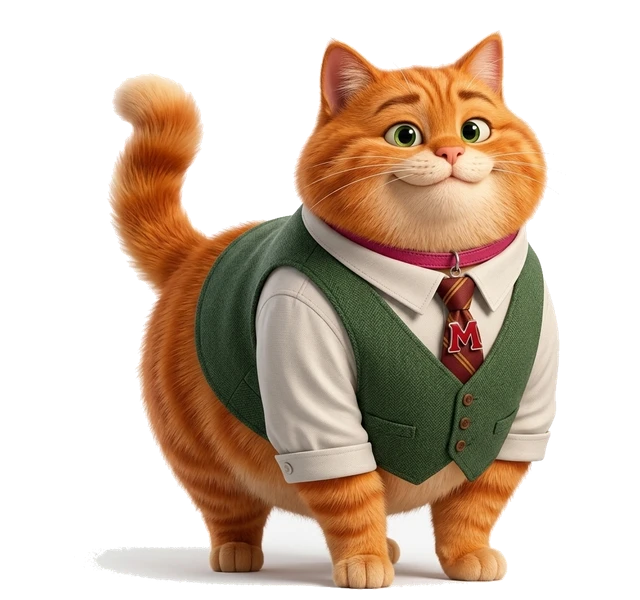
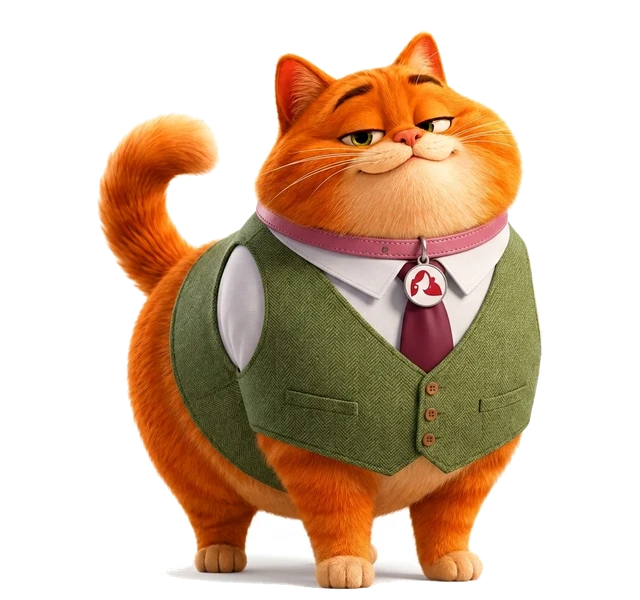
art: реген stage13 «Управляющий» — убрана «М»-монограмма с галстука
Пропущенное нарушение QC (тот же брак, что был у stage16). Кэш-бастер
котов v22, catclick v98.

diff --git a/public/js/catclick.js b/public/js/catclick.js
@@ -4,7 +4,7 @@
  * лидерборд. Сервер /api/clicker* для авторизованных, localStorage у гостей.
  * ───────────────────────────────────────────────────────────────────────────── */
 (function () {
-  const A = (s) => `/assets/images/cat/${s}?v=21`;  // v21: реген stage7/9/16 без «М» на одежде
+  const A = (s) => `/assets/images/cat/${s}?v=22`;  // v22: реген stage7/9/13/16 без «М» на одежде
   const LS = 'maria_click_v2';
   const REGEN = 1.5, PASSIVE_CAP_H = 3, TURBO_MULT = 5, TURBO_SEC = 20, DAILY_BOOSTS = 6;
   // ⚠ Зеркало CARDS/CARD_CATS из src/clicker.ts — менять синхронно (+ cardIcon по id).

diff --git a/public/index.html b/public/index.html
@@ -1305,7 +1305,7 @@
 <script src="/js/catfeed.js" defer></script>
 <script src="/js/catpet.js?v=8" defer></script>
 <script src="/js/catlive.js" defer></script>
-<script src="/js/catclick.js?v=97" defer></script>
+<script src="/js/catclick.js?v=98" defer></script>
 <!-- /js/bakery.js удалён — Игры убраны до новой геймификации (см. game.js — wheel/streak/secret) -->
 <script src="/js/chat.js" defer></script>
 <script src="/js/catalog.js" defer></script>
